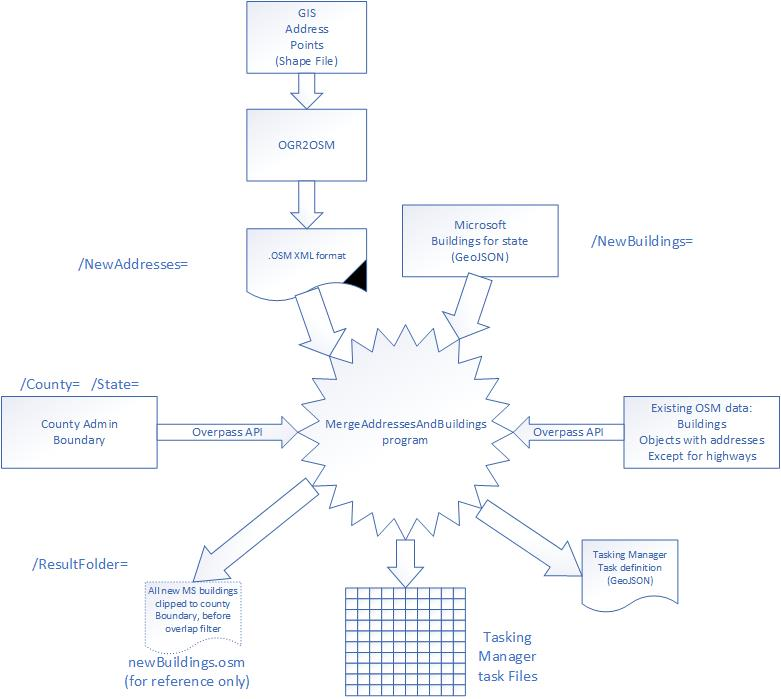
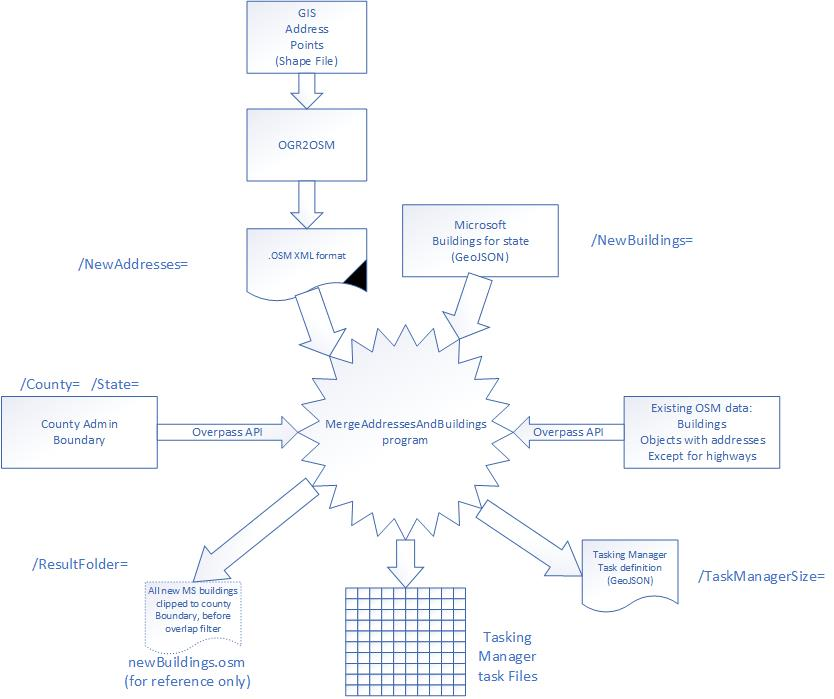
Documentation update

diff --git a/README.md b/README.md
@@ -19,7 +19,7 @@ Result: One large .OSM file ready for JOSM upload.   For information only - too 
 
 Result: OSM US Task manager GeoJSON task definition file
 
-Result: Multiple task .OSM files, ready for JOSM import with task.
+Result: Multiple task .OSM.GZ compressed files, ready for JOSM import with task.
 
 ![Block Diagram](https://raw.githubusercontent.com/OpenStreetMapSC/MergeAddressesAndBuildings/master/Doc/ProgramFlow.jpg)
 
@@ -28,11 +28,11 @@ Notes:
   Currently Fetch.cs is US-oriented regarding State / County administrative boundary hierarchy  - adapt as required.
 
 MergeAddressesAndBuildings Usage:
-  MergeAddressesAndBuildings /NewBuildings="filepath" /NewAddresses="filepath" /County="Name in OSM" /ResultFolder="Existing Directory" /State="2LetterStateAbbreviation"
+  MergeAddressesAndBuildings /NewBuildings="filepath" /NewAddresses="filepath" /County="Name in OSM" /ResultFolder="Existing Directory" /State="2LetterStateAbbreviation" [ /TaskManagerSize=N ]
 
   For example:
 
-  MergeAddressesAndBuildings  /NewBuildings="C:\users\me\OSM\SouthCarolina.geojson" /NewAddresses="C:\users\me\OSM\NewAddresses.osm" /County="Spartanburg County" /State="SC" /ResultFolder="C:\users\me\OSM\Merged"
+  MergeAddressesAndBuildings  /NewBuildings="C:\users\me\OSM\SouthCarolina.geojson" /NewAddresses="C:\users\me\OSM\NewAddresses.osm" /County="Spartanburg County" /State="SC" /ResultFolder="C:\users\me\OSM\Merged" /TaskManagerSize=2000
 (also accepts dash for parameter)
 
   MergeAddressesAndBuildings  -NewBuildings="C:\users\me\OSM\SouthCarolina.geojson" -NewAddresses="C:\users\me\OSM\NewAddresses.osm" -County="Spartanburg County" -State="SC" -ResultFolder="C:\users\me\OSM\Merged"
